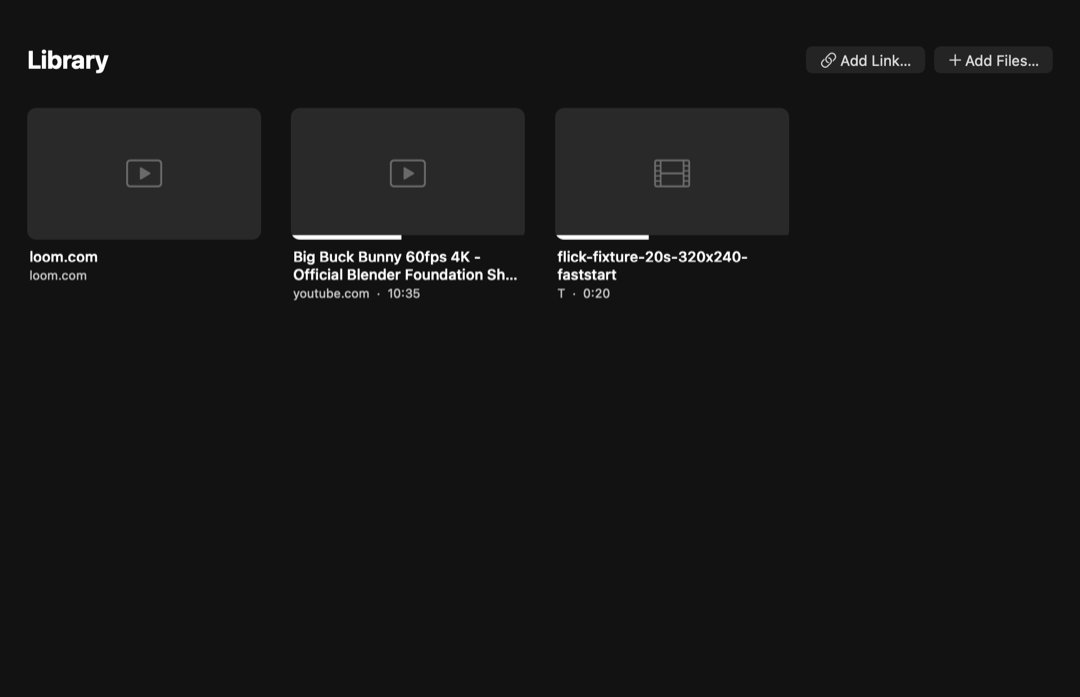
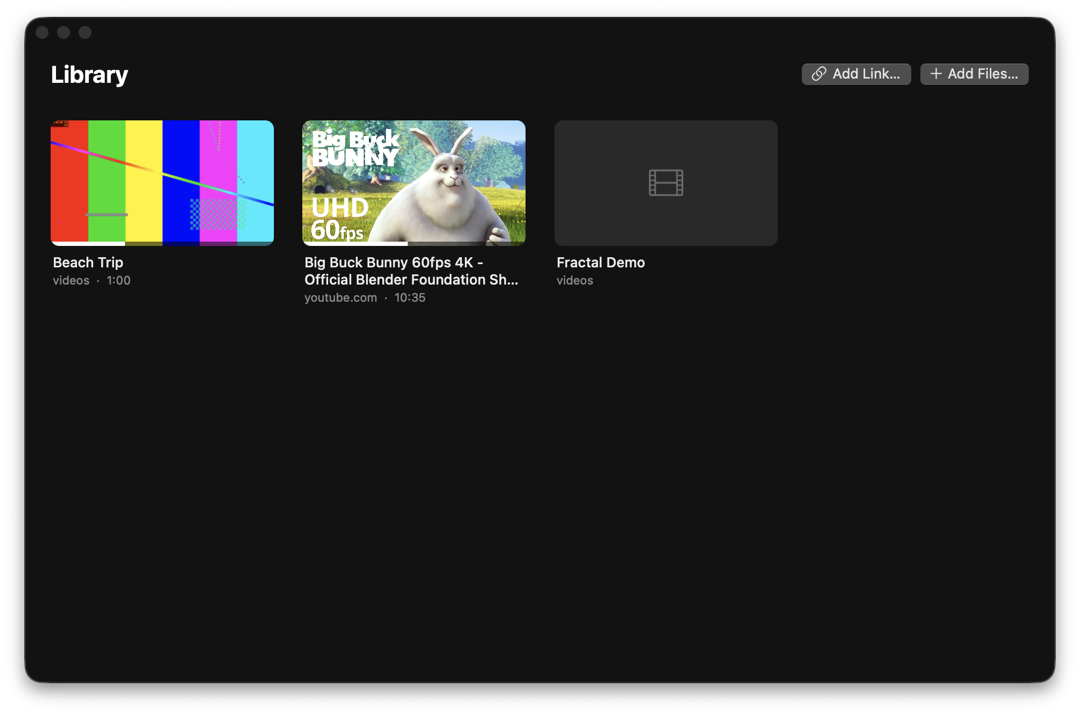
fix: library tiles are buttons and saved file paths match on reload
Each tile is an accessibility button with its own context menu, so
VoiceOver can play and remove items and right-click no longer looks up
the tile under the last mouse event. Paths read back from library.json
are normalised, so playing a saved file under /private/tmp or a path
with ".." no longer adds it twice.

Changed region(s): [[0.0, 0.0, 1.0, 1.0], [0.5194, 0.3314, 0.7028, 0.4218], [0.5806, 0.2109, 0.6417, 0.2712]]

diff --git a/Sources/Flick/LibraryView.swift b/Sources/Flick/LibraryView.swift
@@ -1,7 +1,7 @@
 import AppKit
 import QuickLookThumbnailing
 
-final class LibraryView: NSView, NSCollectionViewDataSource, NSCollectionViewDelegate, NSMenuDelegate {
+final class LibraryView: NSView, NSCollectionViewDataSource, NSCollectionViewDelegate {
     static let itemSize = NSSize(width: 208, height: 172)
     static let headerHeight: CGFloat = 92
 
@@ -52,7 +52,8 @@ final class LibraryView: NSView, NSCollectionViewDataSource, NSCollectionViewDel
         let cell = collectionView.makeItem(withIdentifier: LibraryCell.identifier, for: indexPath)
         guard let cell = cell as? LibraryCell else { return cell }
         let item = library.items[indexPath.item]
-        cell.show(item)
+        cell.show(item, menu: menu(for: item))
+        cell.onPlay = { [weak self] in self?.onPlay?(item.url) }
         Task { @MainActor [thumbnails] in
             let image = await thumbnails.image(for: item, size: Self.itemSize)
             cell.showThumbnail(image, for: item.url)
@@ -66,9 +67,8 @@ final class LibraryView: NSView, NSCollectionViewDataSource, NSCollectionViewDel
         onPlay?(library.items[index].url)
     }
 
-    func menuNeedsUpdate(_ menu: NSMenu) {
-        menu.removeAllItems()
-        guard let item = clickedItem() else { return }
+    private func menu(for item: LibraryItem) -> NSMenu {
+        let menu = NSMenu()
         menu.addItem(menuItem("Play", #selector(playClicked(_:)), for: item))
         if item.url.isFileURL {
             menu.addItem(menuItem("Show in Finder", #selector(showClickedInFinder(_:)), for: item))
@@ -77,6 +77,7 @@ final class LibraryView: NSView, NSCollectionViewDataSource, NSCollectionViewDel
         }
         menu.addItem(.separator())
         menu.addItem(menuItem("Remove from Library", #selector(removeClicked(_:)), for: item))
+        return menu
     }
 
     private func buildHeader() {
@@ -112,9 +113,6 @@ final class LibraryView: NSView, NSCollectionViewDataSource, NSCollectionViewDel
         collectionView.dataSource = self
         collectionView.delegate = self
         collectionView.register(LibraryCell.self, forItemWithIdentifier: LibraryCell.identifier)
-        let menu = NSMenu()
-        menu.delegate = self
-        collectionView.menu = menu
         scrollView.documentView = collectionView
         scrollView.drawsBackground = false
         scrollView.hasVerticalScroller = true
@@ -154,13 +152,6 @@ final class LibraryView: NSView, NSCollectionViewDataSource, NSCollectionViewDel
         onAddFiles?()
     }
 
-    private func clickedItem() -> LibraryItem? {
-        guard let event = NSApp.currentEvent else { return nil }
-        let point = collectionView.convert(event.locationInWindow, from: nil)
-        guard let index = collectionView.indexPathForItem(at: point)?.item, library.items.indices.contains(index) else { return nil }
-        return library.items[index]
-    }
-
     private func menuItem(_ title: String, _ action: Selector, for item: LibraryItem) -> NSMenuItem {
         let menuItem = NSMenuItem(title: title, action: action, keyEquivalent: "")
         menuItem.target = self
@@ -194,6 +185,8 @@ final class LibraryCell: NSCollectionViewItem {
     static let identifier = NSUserInterfaceItemIdentifier("LibraryCell")
     static let thumbnailHeight: CGFloat = 117
 
+    var onPlay: (() -> Void)?
+    private let tile = TileView()
     private let thumbnail = ThumbnailView()
     private let titleLabel = NSTextField(labelWithString: "")
     private let sourceLabel = NSTextField(labelWithString: "")
@@ -210,7 +203,8 @@ final class LibraryCell: NSCollectionViewItem {
         sourceLabel.font = .systemFont(ofSize: 11)
         sourceLabel.textColor = NSColor.white.withAlphaComponent(0.5)
         sourceLabel.lineBreakMode = .byTruncatingTail
-        let container = NSView()
+        tile.onPress = { [weak self] in self?.onPlay?() }
+        let container = tile
         for subview in [thumbnail, titleLabel, sourceLabel] as [NSView] {
             subview.translatesAutoresizingMaskIntoConstraints = false
             container.addSubview(subview)
@@ -231,8 +225,10 @@ final class LibraryCell: NSCollectionViewItem {
         view = container
     }
 
-    func show(_ item: LibraryItem) {
+    func show(_ item: LibraryItem, menu: NSMenu) {
         shownURL = item.url
+        tile.menu = menu
+        tile.setAccessibilityLabel(item.displayTitle)
         titleLabel.stringValue = item.displayTitle
         titleLabel.toolTip = item.displayTitle
         sourceLabel.stringValue = [item.source, item.duration > 0 ? item.duration.clockText : nil]
@@ -246,6 +242,26 @@ final class LibraryCell: NSCollectionViewItem {
     func showThumbnail(_ image: NSImage?, for url: URL) {
         guard url == shownURL else { return }
         thumbnail.image = image
+    }
+}
+
+final class TileView: NSView {
+    var onPress: (() -> Void)?
+
+    override func isAccessibilityElement() -> Bool { true }
+
+    override func accessibilityRole() -> NSAccessibility.Role? { .button }
+
+    override func accessibilityPerformPress() -> Bool {
+        guard let onPress else { return false }
+        onPress()
+        return true
+    }
+
+    override func accessibilityPerformShowMenu() -> Bool {
+        guard let menu else { return false }
+        menu.popUp(positioning: nil, at: NSPoint(x: 0, y: bounds.height), in: self)
+        return true
     }
 }
 

diff --git a/Tests/FlickTests/LibraryViewTests.swift b/Tests/FlickTests/LibraryViewTests.swift
@@ -42,6 +42,49 @@ struct LibraryViewTests {
         #expect(played == loom)
     }
 
+    @Test func pressingATileWithVoiceOverPlaysIt() throws {
+        let library = try Library(file: temporaryDirectory().appending(path: "library.json"))
+        library.save(loom)
+        let view = LibraryView(library: library)
+        var played: URL?
+        view.onPlay = { played = $0 }
+
+        let tile = try tile(at: 0, of: view)
+
+        #expect(tile.accessibilityRole() == .button)
+        #expect(tile.accessibilityLabel() == "loom.com")
+        #expect(tile.accessibilityPerformPress())
+        #expect(played == loom)
+    }
+
+    @Test func removesAnItemFromItsTileMenu() throws {
+        let library = try Library(file: temporaryDirectory().appending(path: "library.json"))
+        library.save(loom)
+        let view = LibraryView(library: library)
+        let menu = try #require(try tile(at: 0, of: view).menu)
+
+        #expect(menu.items.map(\.title) == ["Play", "Copy Link", "", "Remove from Library"])
+        menu.performActionForItem(at: try #require(menu.items.firstIndex { $0.title == "Remove from Library" }))
+
+        #expect(library.items.isEmpty)
+    }
+
+    @Test func offersFinderInsteadOfCopyForAFile() throws {
+        let library = try Library(file: temporaryDirectory().appending(path: "library.json"))
+        library.save(URL(fileURLWithPath: "/Users/me/Movies/Trip.mkv"))
+        let menu = try #require(try tile(at: 0, of: LibraryView(library: library)).menu)
+
+        #expect(menu.items.map(\.title).contains("Show in Finder"))
+    }
+
+    private func tile(at index: Int, of view: LibraryView) throws -> NSView {
+        let grid = NSCollectionView()
+        grid.collectionViewLayout = NSCollectionViewFlowLayout()
+        grid.register(LibraryCell.self, forItemWithIdentifier: LibraryCell.identifier)
+        grid.dataSource = view
+        return view.collectionView(grid, itemForRepresentedObjectAt: IndexPath(item: index, section: 0)).view
+    }
+
     @Test func rendersOffscreen() throws {
         let video = try VideoFixture.shared()
         let library = try Library(file: temporaryDirectory().appending(path: "library.json"))

diff --git a/Tests/FlickTests/LibraryTests.swift b/Tests/FlickTests/LibraryTests.swift
@@ -139,6 +139,17 @@ struct LibraryTests {
         #expect(second.items == first.items)
     }
 
+    @Test func matchesAFileSavedUnderAnotherSpellingOfItsPath() throws {
+        let file = try temporaryDirectory().appending(path: "library.json")
+        try #"[{"url":"file:///Users/me/Movies/../Movies/Trip.mkv","addedAt":0,"position":20,"duration":60}]"#.write(to: file, atomically: true, encoding: .utf8)
+        let library = Library(file: file)
+
+        library.notePlayed(movie)
+
+        #expect(library.items.map(\.url) == [movie])
+        #expect(library.items.first?.position == 20)
+    }
+
     @Test func startsEmptyWhenNothingWasSavedYet() throws {
         let library = try Library(file: temporaryDirectory().appending(components: "missing", "library.json"))
         #expect(library.items.isEmpty)

diff --git a/Sources/Flick/Library.swift b/Sources/Flick/Library.swift
@@ -33,7 +33,12 @@ final class Library {
     init(file: URL, now: @escaping () -> Date = Date.init) {
         self.file = file
         self.now = now
-        items = (try? Data(contentsOf: file)).flatMap { try? JSONDecoder().decode([LibraryItem].self, from: $0) } ?? []
+        let saved = (try? Data(contentsOf: file)).flatMap { try? JSONDecoder().decode([LibraryItem].self, from: $0) } ?? []
+        items = saved.map { item in
+            var item = item
+            item.url = item.url.libraryKey
+            return item
+        }
     }
 
     func notePlayed(_ url: URL) {
